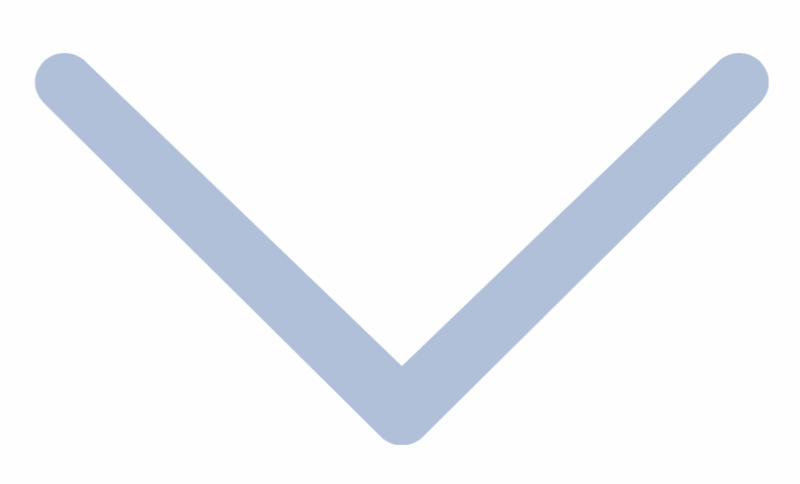
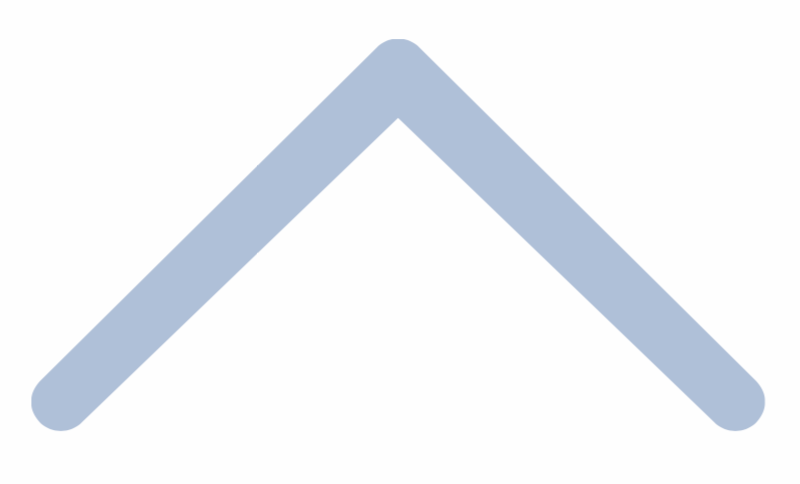
ac

Changed region(s): [[0.0312, 0.062, 0.9688, 0.9298]]

diff --git a/res/pages/program.html b/res/pages/program.html
@@ -38,6 +38,7 @@
 				<label for="check-1"><span class='blueDot'></span><span class='clock'></span>12:00-12:30</label>
           <h3> Retrieving Human Traits From Gesture In Sign Language : The Example Of Gestural Identity </h3>
           <h4>Félix Bigand, Elise Prigent and Annelies Braffort </h4>
+          <h4><a href='javascript:goto("saffb")'><span class='pin'></span> Stauffer B </a></h4>
 				<article>
   ABSTRACT. Virtual signers (or signing avatars) play an important role in the accesibility of information in sign languages. They have been developed notably for their capability to anonymize the signer's appearance and to enable dynamic or interactive scenarios. Recording real movements thanks to motion capture provides human-like, realistic and comprehensible signing animations. However, such accurate systems may also convey extralinguistic information such as identity, gender or emotional state. In the present work, we want to address the problem of gestural identity in the context of animated agents in French Sign Language (LSF). On the one hand, person identification from signing motion is assessed through psychophysical experiments, using point-light displays. On the other hand, a computational framework is developed for the analysis of LSF motion in order to investigate which features are critical for identification. For some applications, determining these movement parameters will enable controlling the gestural human traits of virtual signers.
 				</article>

diff --git a/res/css/circularMenu.css b/res/css/circularMenu.css
@@ -338,14 +338,26 @@ body.menuVisible
 	cursor: pointer;
 	display: block;
   padding: 10px 0px 10px 0px;
+  font-size: 18px;
+  font-weight: bold;
+  margin-bottom: 10px;
+  font-size: 18px;
+  font-weight: normal;
 }
-#accordion label:hover {
+
+#accordion input + label {
+  background-image: url(../images/chevron.png);
+  background-size: 30px;
+  background-repeat: no-repeat;
+  background-position: 95% 50%;
 }
+
 
 #accordion input:checked + label {
 	border-bottom-right-radius: 0;
 	border-bottom-left-radius: 0;
 	margin-bottom: 0;
+  background-image: url(../images/chevronR.png);
 }
 #accordion article {
 	background: #f7f7f7;
@@ -503,6 +515,17 @@ span.clock{
     margin: 0 10px 0 0;
 }
 
+span.pin{
+    height: 25px;
+    width: 25px;
+    background-image: url(../images/pin.png);
+    display: inline-block;
+    background-size: contain;
+    background-position: 50%;
+    vertical-align: middle;
+    margin: 0px;
+}
+
 
 article, .article,
 .pcard h3,
@@ -521,7 +544,12 @@ article, .article,
   width: 90%;
   margin-left: auto;
   margin-right: auto;
-  border-top: 1px dotted #BDC9DE;
+  border-top: 3px dotted #BDC9DE;
+}
+
+.pcard h4 a{
+  text-decoration: none;
+  vertical-align:middle;
 }
 
 .pcard{
